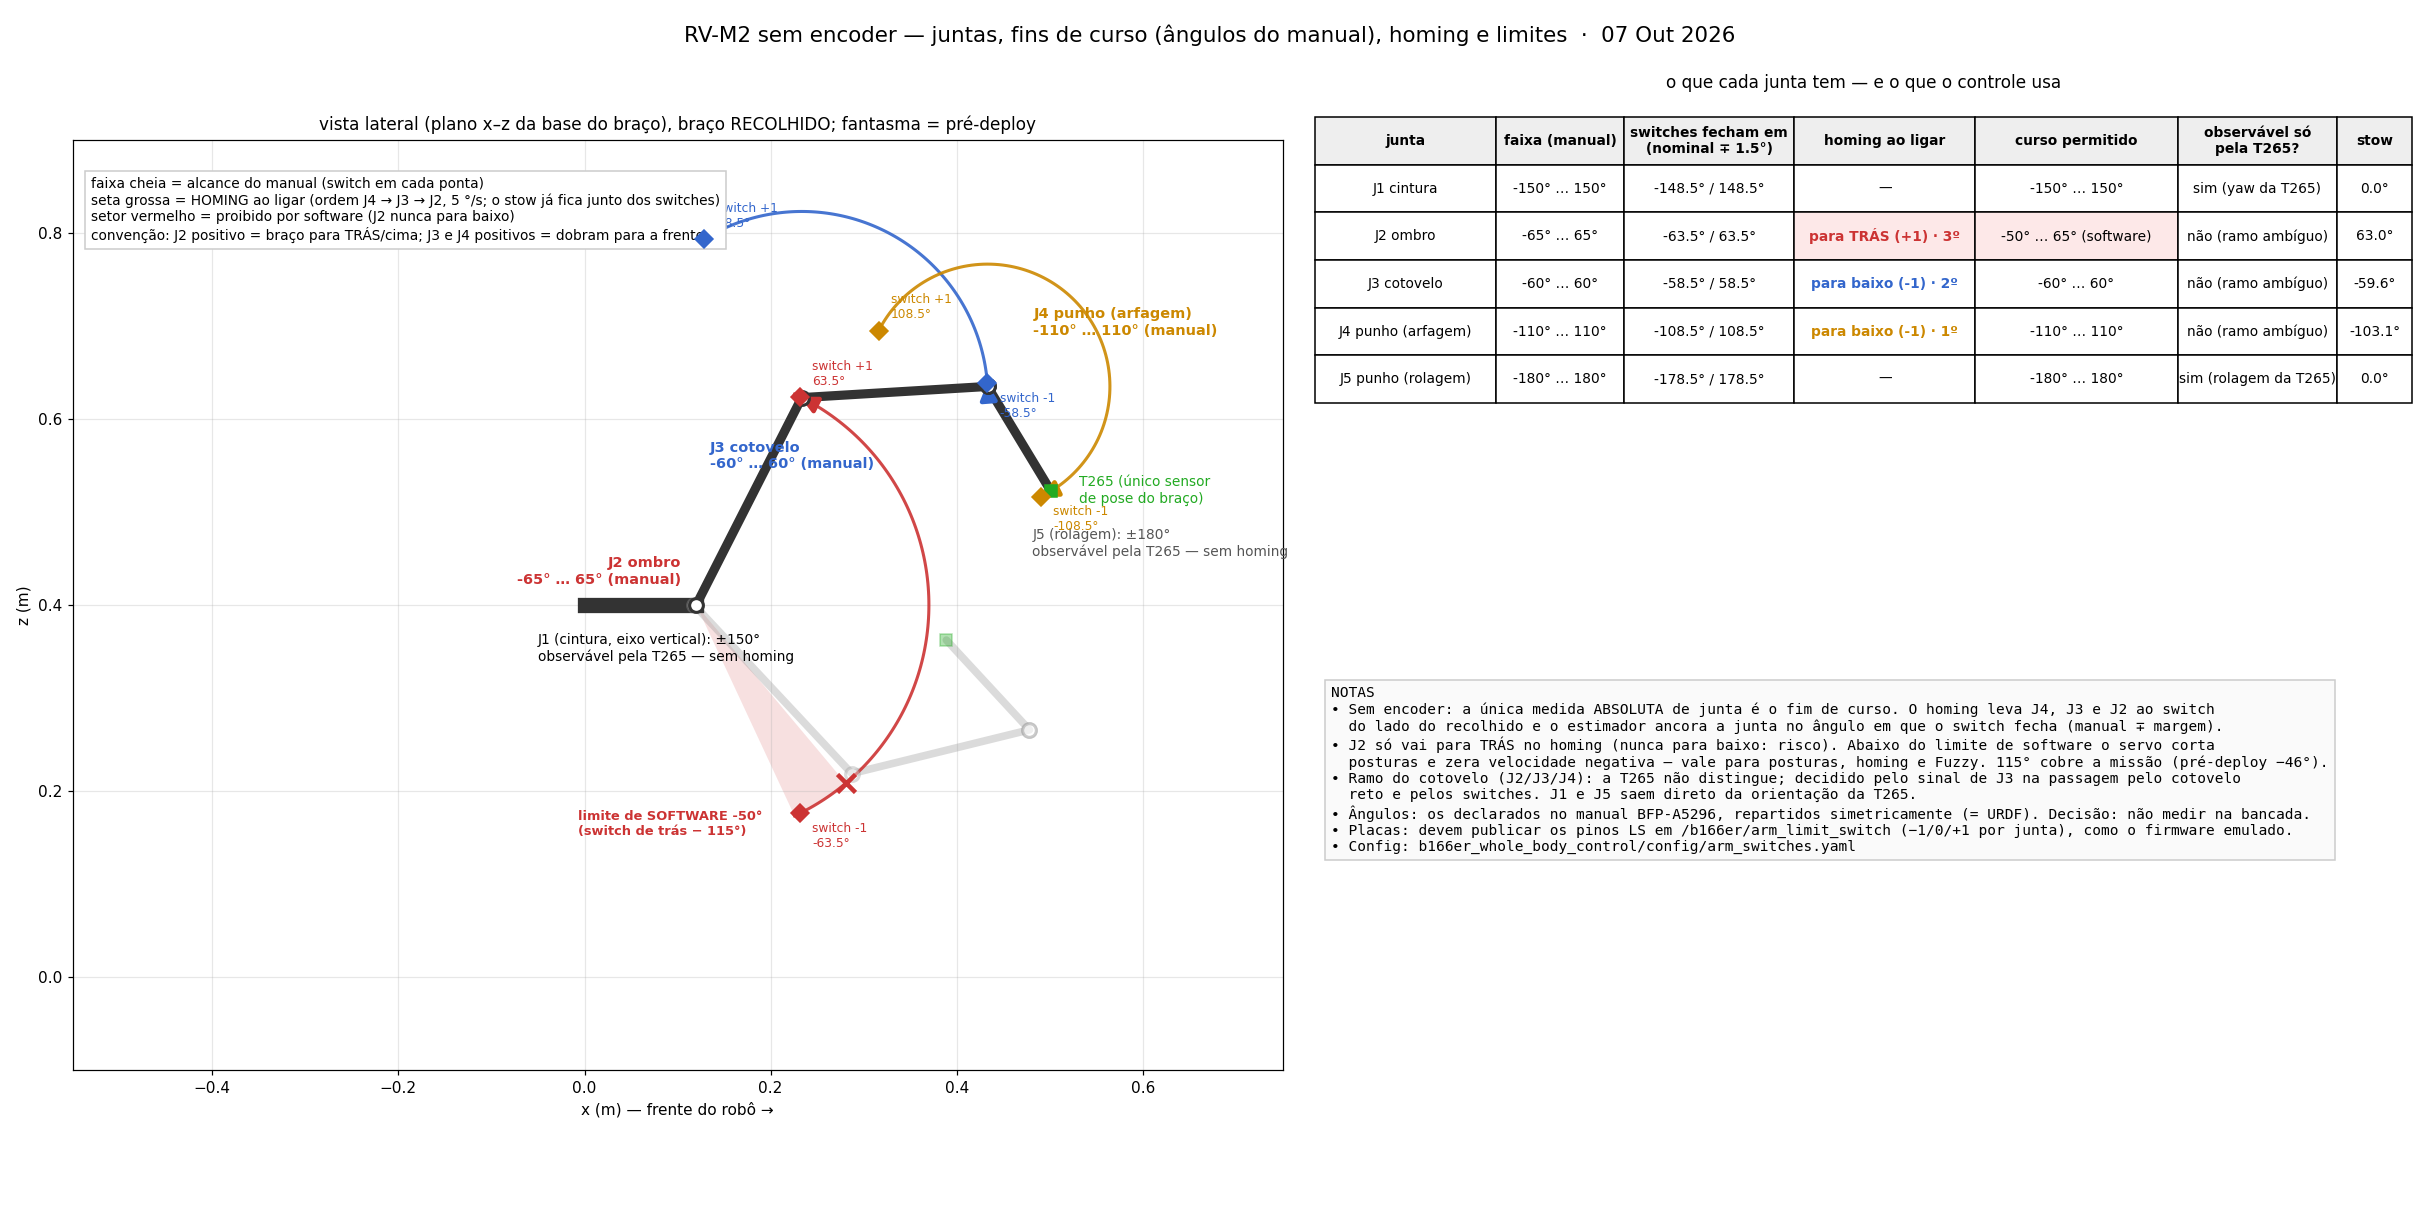
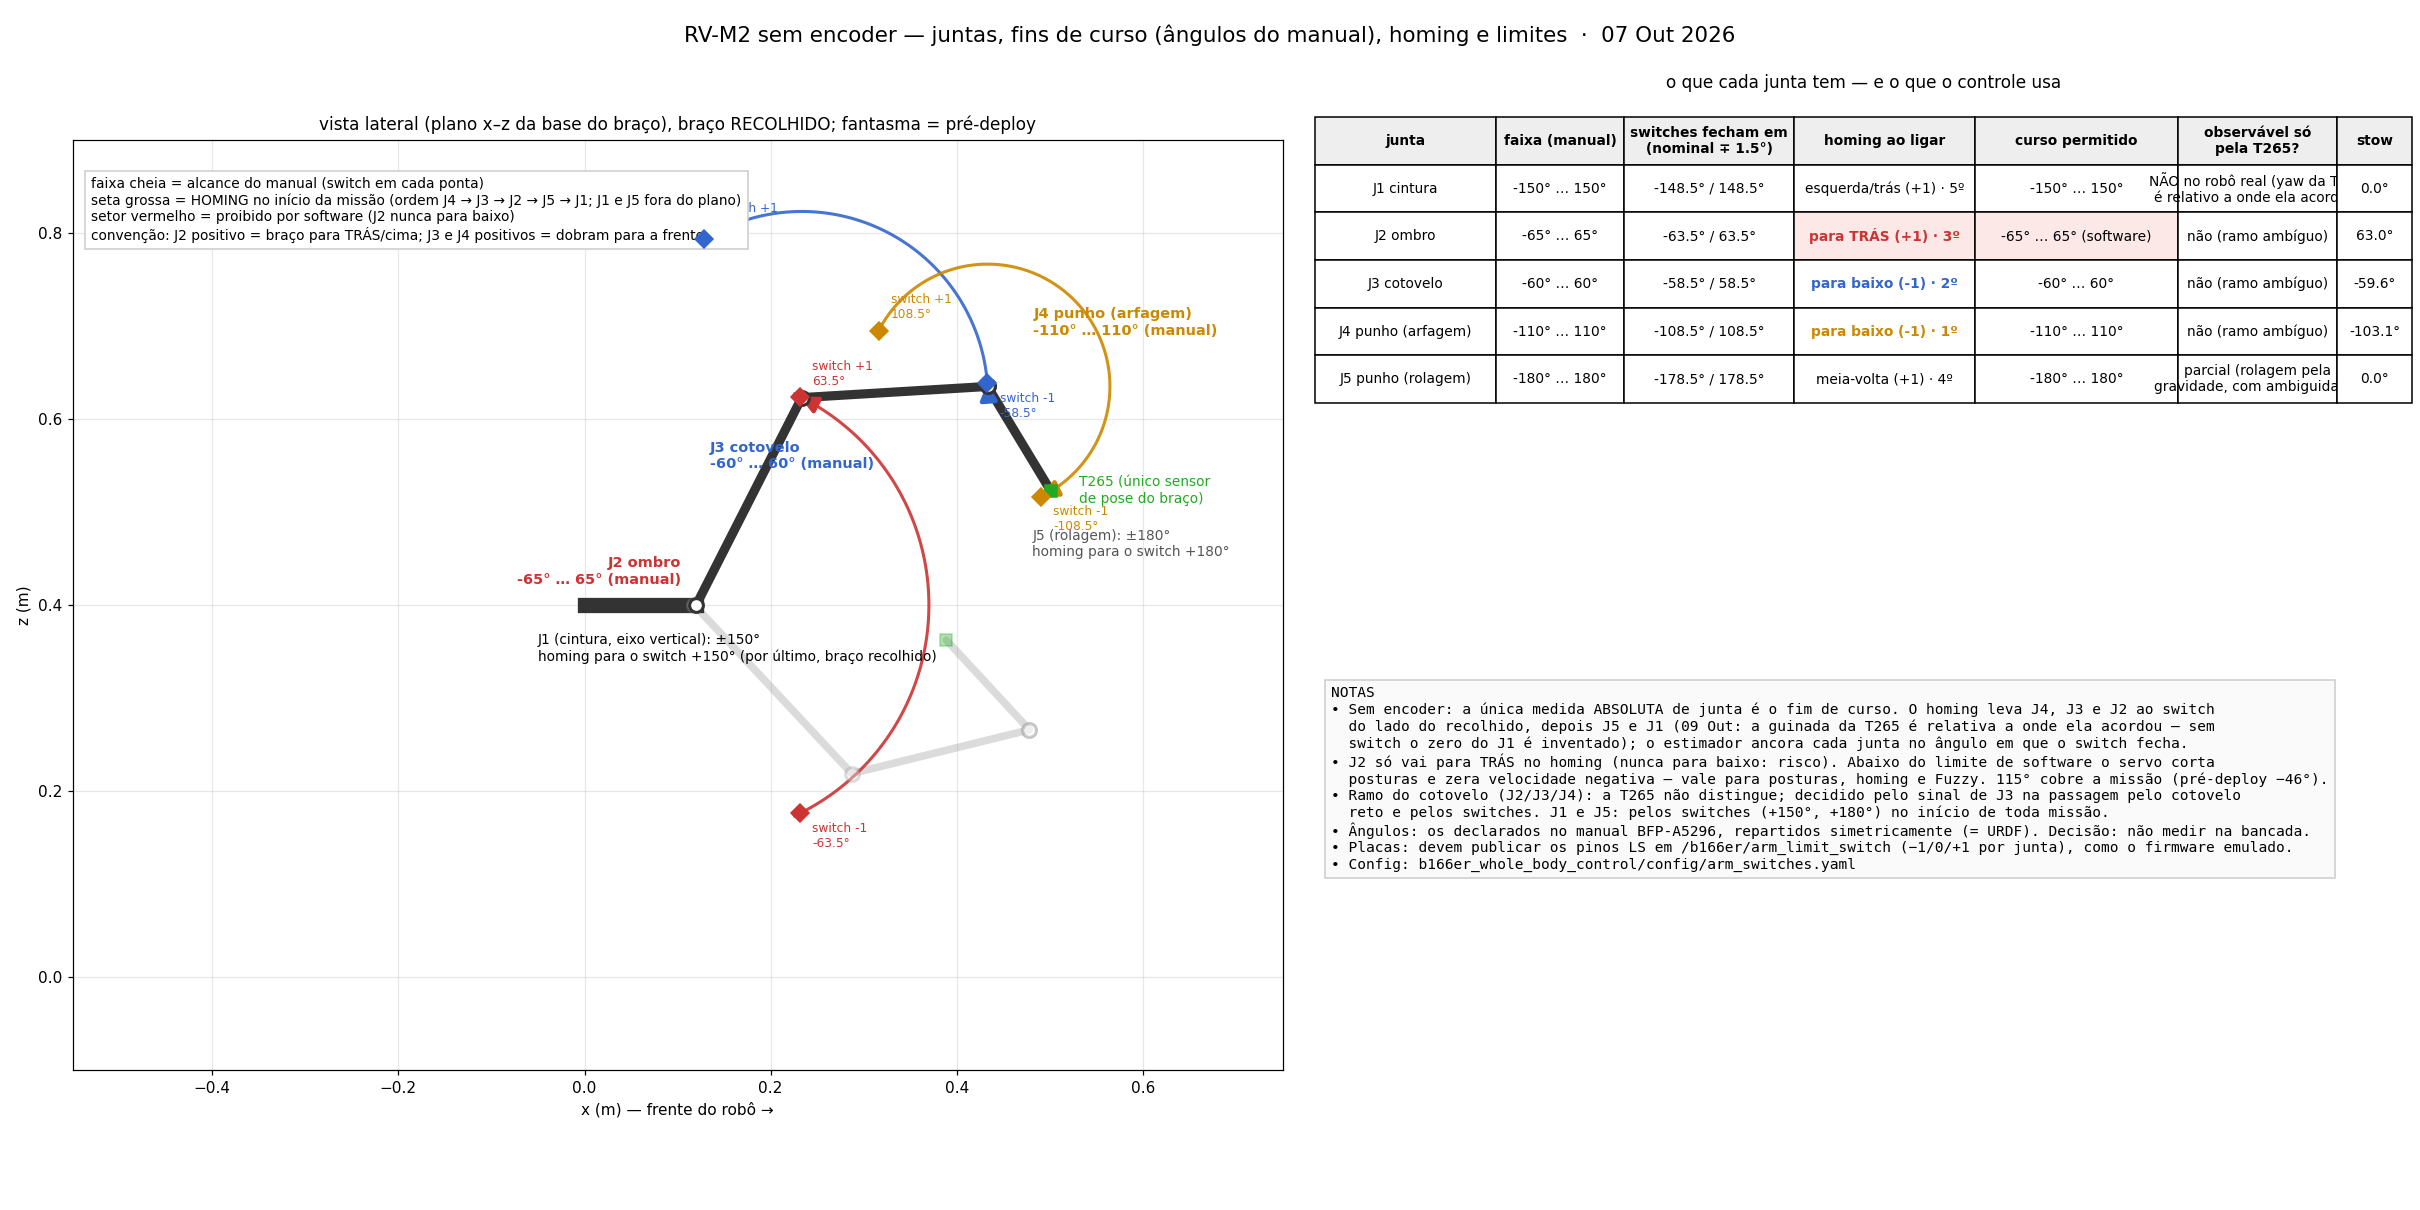
docs(whole_body): desenho das juntas com J1 e J5 no homing; RELATORIO26
Claude-Session: https://claude.ai/code/session_01P4v3ZvEh2bwom2DYHA9moN

diff --git a/src/b166er_whole_body_control/scripts/desenho_juntas_switches.py b/src/b166er_whole_body_control/scripts/desenho_juntas_switches.py
@@ -13,7 +13,9 @@ from b166er_whole_body_control.kinematics import fk_arm_joint_frames
 
 cfg = yaml.safe_load(open('src/b166er_whole_body_control/config/arm_switches.yaml'))
 LO = np.array(cfg['lower_deg']); UP = np.array(cfg['upper_deg']); MG = cfg['margem_deg']
-SIDE = cfg['home_side']; ORDEM = cfg['home_ordem']; J2MIN = UP[1] - cfg['j2_curso_deg']
+SIDE = cfg['home_side']; ORDEM = cfg['home_ordem']
+import os
+J2MIN = float(os.environ.get('B166ER_J2_MIN_DEG', '-65.0'))   # limite de software do J2 (padrão = extremo do modelo)
 STOW = np.array([0.0, 1.10, -1.04, -1.8, 0.0]); STOWd = np.degrees(STOW)
 DEPLOY = np.array([-0.19, -0.81, 1.047, 1.368, -0.19])
 NOMES = ['J1 cintura', 'J2 ombro', 'J3 cotovelo', 'J4 punho (arfagem)', 'J5 punho (rolagem)']
@@ -63,12 +65,12 @@ for k, prox in ((1, 2), (2, 3), (3, 5)):
         ax.annotate('switch %+d\n%.1f°' % (lado, a), p, textcoords='offset points', xytext=(8, 8 if lado > 0 else -22),
                     fontsize=8, color=cores[k])
     # setor proibido do J2 (abaixo do limite de software)
-    if k == 1:
+    if k == 1 and J2MIN > LO[k] + 0.5:
         ang_p = np.linspace(LO[k], J2MIN, 40)
         pp = np.array([ponto(a) for a in ang_p])
         ax.fill(np.r_[centro[0], pp[:, 0]], np.r_[centro[1], pp[:, 1]], color='#c33', alpha=0.15, lw=0)
         p = ponto(J2MIN); ax.plot(p[0], p[1], 'x', color='#c33', ms=12, mew=3, zorder=8)
-        ax.annotate('limite de SOFTWARE %.0f°\n(switch de trás − %.0f°)' % (J2MIN, cfg['j2_curso_deg']), p,
+        ax.annotate('limite de SOFTWARE %.0f°\n(B166ER_J2_MIN_DEG)' % J2MIN, p,
                     textcoords='offset points', xytext=(-175, -34), fontsize=8.5, color='#c33', weight='bold')
     # seta do homing: do stow ao switch escolhido
     if SIDE[k] != 0:
